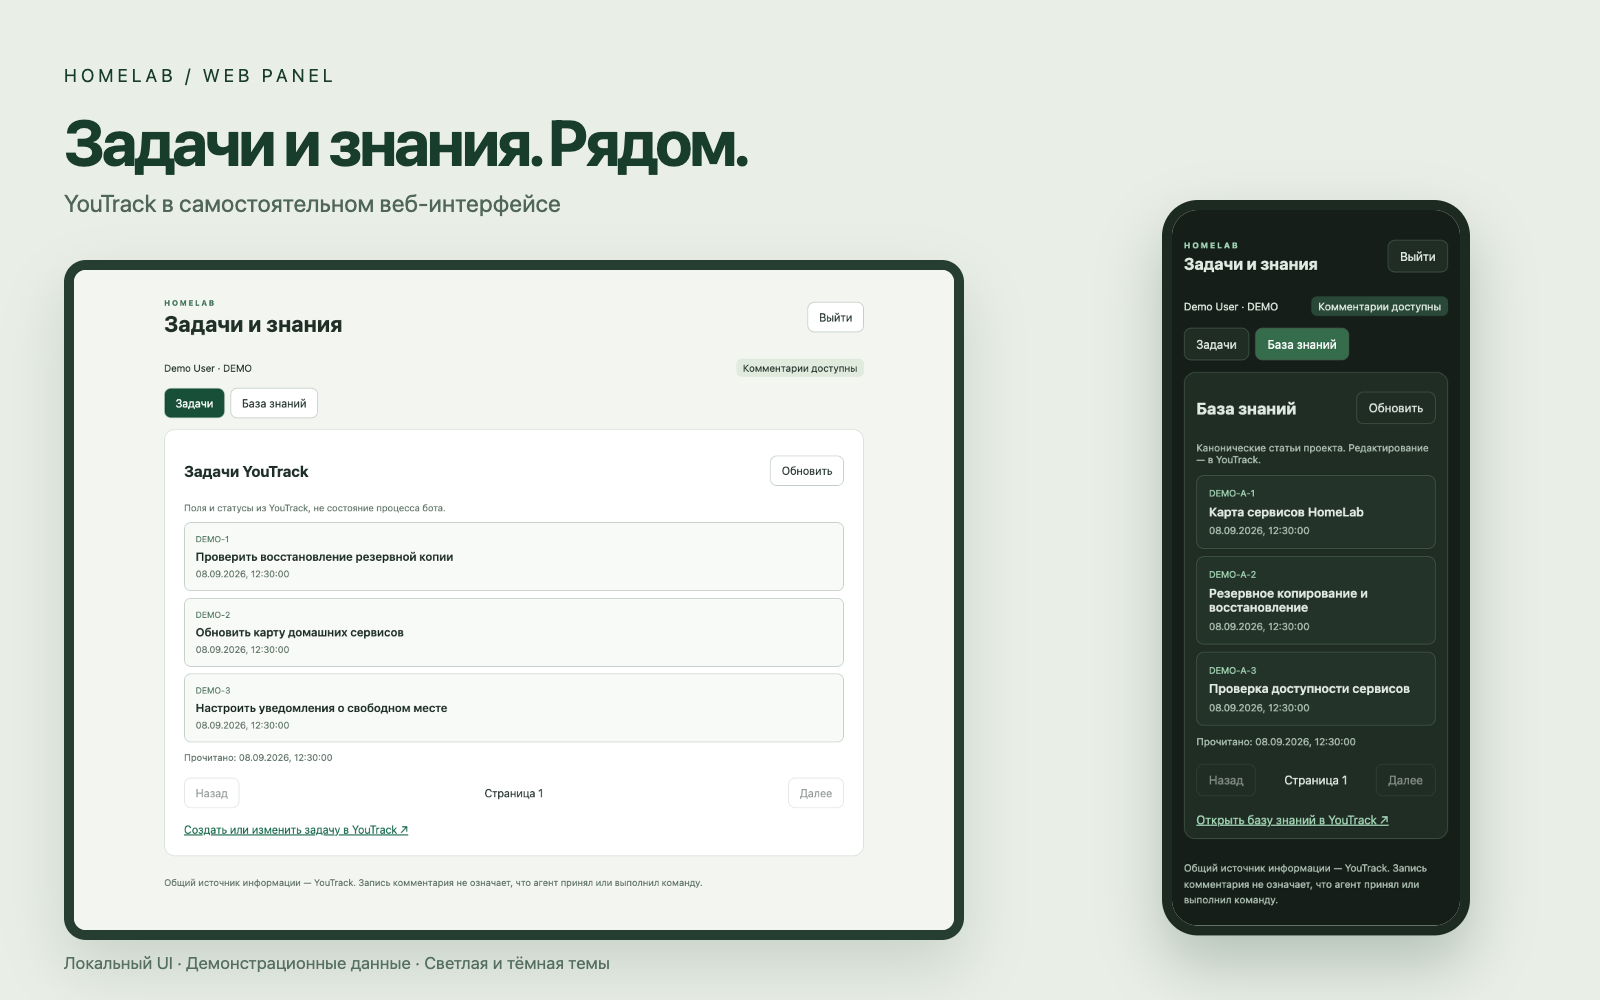
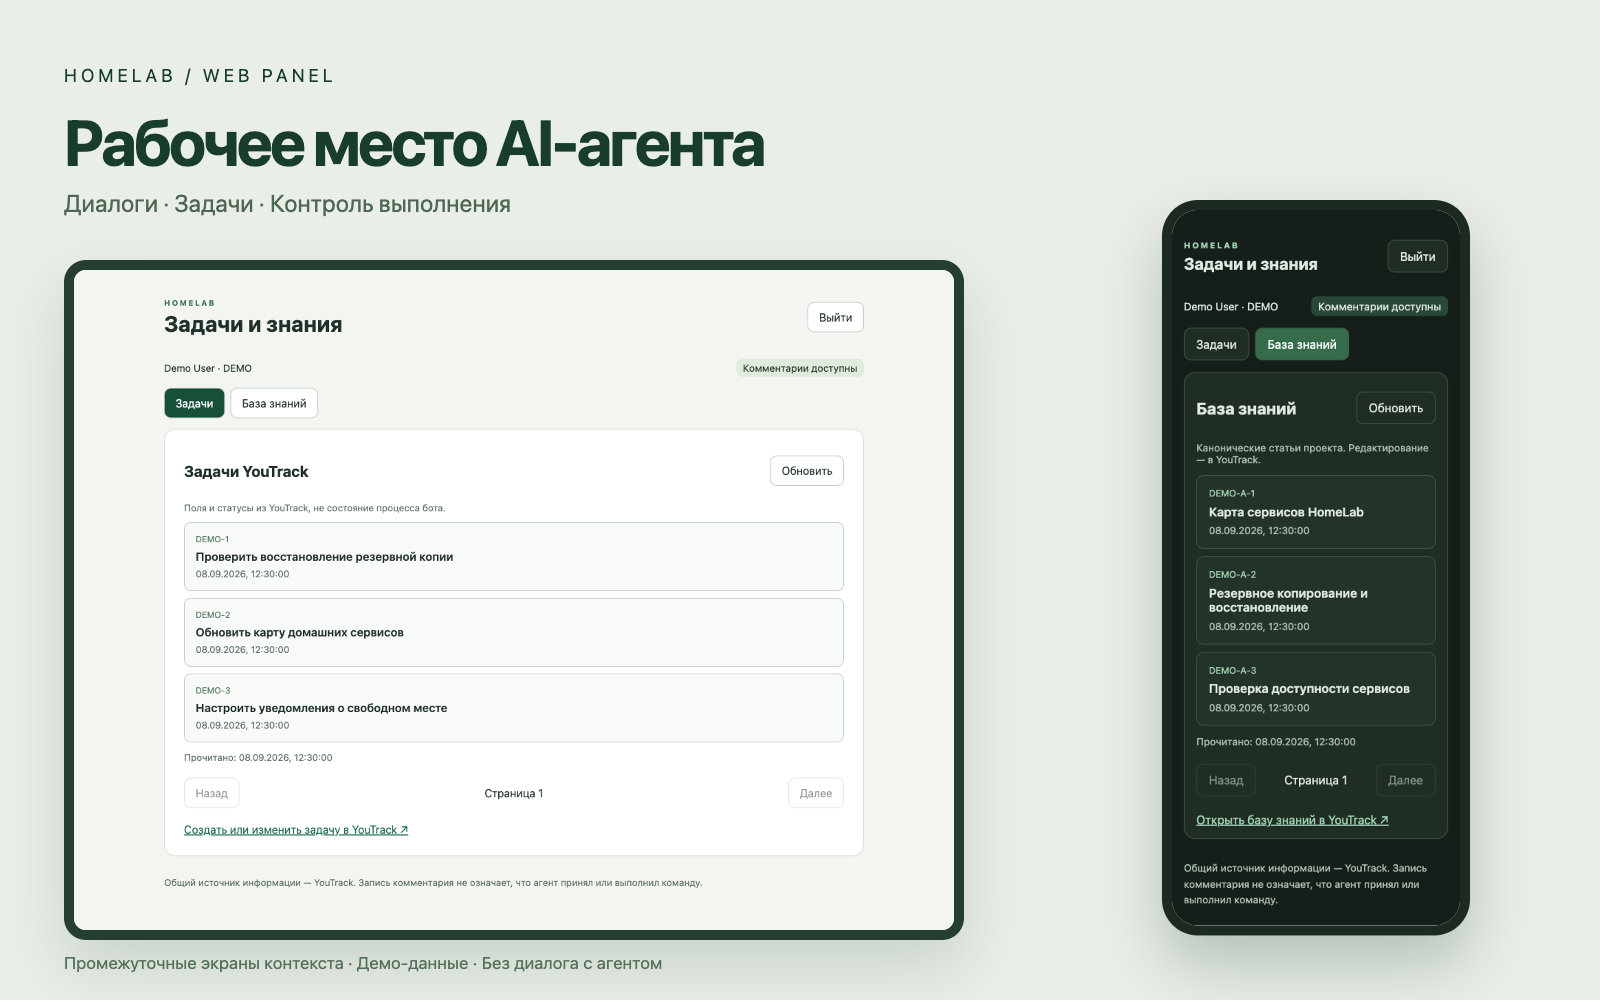
docs: restore agent-shell product purpose

Changed region(s): [[0.0312, 0.124, 0.5, 0.217], [0.0312, 0.961, 0.4062, 0.992]]

diff --git a/README.md b/README.md
@@ -2,24 +2,45 @@
 
 # HomeLab Panel
 
-**Задачи, обсуждения и база знаний — в одном веб-интерфейсе.**
+**Веб-оболочка AI-агента: диалоги, задачи и контроль выполнения.**
 
-React / Vite · Go · YouTrack · Светлая и тёмная темы
+Cursor SDK · Диалоги · Задачи · Контроль
 
-[Интерфейс](#интерфейс) · [Возможности](#возможности-и-честные-границы) · [Сборка](#сборка-и-проверки) · [Разработка](CONTRIBUTING.md)
+[Интерфейс](#интерфейс) · [Назначение](#назначение) · [Статус реализации](#статус-реализации) · [Сборка](#сборка-и-проверки) · [Разработка](CONTRIBUTING.md)
 
 </div>
 
 ![HomeLab Panel: обзор настольного и мобильного интерфейса](docs/images/overview.png)
 
-Независимая веб-панель для работы с YouTrack. Telegram-бот для запуска,
-входа и работы **не нужен**. Требования и актуальные решения:
-[HL-210](https://youtrack.h1-cloud.ru/issue/HL-210) ·
-[ADR-MW-001](https://youtrack.h1-cloud.ru/articles/HL-A-592).
+HomeLab Panel — рабочее место для взаимодействия с собственным AI-агентом
+на **Cursor SDK**. Пользователь общается с агентом, ставит задачи, следит за
+их выполнением, отвечает на вопросы и управляет конкретной работой.
+YouTrack хранит постановки, решения, знания и опубликованные результаты,
+которые агент использует в работе.
 
-> Изображения показывают UI из `535ecc1` на синтетических данных проекта `DEMO`.
-> Обложка — композиция реальных локальных скриншотов. Это preview интерфейса,
-> а не подтверждение production-развёртывания или полноты HL-210.
+## Назначение
+
+Приложение создаётся как оболочка вокруг агента. Основные сценарии продукта:
+
+- **Общаться:** вести диалоги с агентом и переключаться между независимыми контекстами.
+- **Поручать работу:** задавать цель и уточнять её в контексте конкретной задачи.
+- **Следить за выполнением:** видеть состояние, результат, причину ожидания и следующий шаг.
+- **Управлять:** отвечать на вопросы агента, уточнять и адресно останавливать работу.
+- **Сохранять контекст:** использовать задачи и базу знаний YouTrack, явно публиковать результаты.
+
+Это назначение и целевые сценарии продукта; статус их реализации приведён ниже.
+По принятой архитектуре Panel должна содержать собственный агентский runtime
+и работать независимо от Telegram-бота.
+Выход из веб-панели по требованиям продукта отзывает веб-доступ, но не останавливает
+запущенного агента. Остановка работы — отдельное явное действие.
+
+Канонические требования: [HL-210@10](https://youtrack.h1-cloud.ru/issue/HL-210).
+Первый инкремент собственного агента: [HL-238@3](https://youtrack.h1-cloud.ru/issue/HL-238).
+
+> Галерея показывает промежуточные экраны задач и знаний из `535ecc1`
+> на синтетических данных `DEMO`. Диалог с агентом на этих снимках ещё отсутствует.
+> Обложка — композиция локальных скриншотов; она не подтверждает полноту продукта
+> или production-развёртывание.
 
 ## Интерфейс
 
@@ -58,21 +79,28 @@ React / Vite · Go · YouTrack · Светлая и тёмная темы
 
 ## Как устроено
 
+Принятая продуктовая граница по HL-210@8–10:
+
 ```mermaid
 flowchart LR
-    Browser[Браузер] --> Panel[Panel · React + Go]
-    Panel --> YT[YouTrack · задачи, комментарии, KB]
-    Bot[Telegram-бот / Fixik] --> YT
+    User[Пользователь] --> Panel[Panel · диалоги и управление]
+    Panel --> Agent[Собственный агент · Cursor SDK]
+    Agent --> YT[YouTrack · задачи, решения, знания]
+    Panel --> YT
+    Bot[Независимый Telegram-бот / Fixik] --> YT
 ```
 
-Нет вызовов Controller, Unix-сокетов, callbacks, общей БД, volumes, очереди
-или bot token. Остановка одного приложения не требует остановки другого.
-Общая зависимость — YouTrack: его отказ отключает получение/запись данных,
-но не запуск Panel и не выдаётся за отказ бота.
+Cursor SDK выполняет работу агента; Panel предоставляет интерфейс и управление
+его запуском. YouTrack — канонический контекст задач и знаний, а также канал обмена
+с независимым Telegram-ботом. Прямых вызовов Controller бота, общих БД, сокетов,
+очередей и секретов между приложениями нет.
 
 Правила разработки: [AGENTS.md](AGENTS.md), [CONTRIBUTING.md](CONTRIBUTING.md).
 
-## Возможности и честные границы
+## Статус реализации
+
+**В `main` на базе `df28c48` находится промежуточный срез интеграции с YouTrack.**
+Он обеспечивает доступ к контексту для будущей работы агента:
 
 - Список/детали issues проекта, поля YouTrack, страницы комментариев.
 - Чтение статей Knowledge Base проекта.
@@ -86,8 +114,15 @@ flowchart LR
 - Черновики адресованы точному issue и сохраняются в памяти при переключении
   задач/разделов; reload/logout не сохраняет черновики.
 
-Полный продуктовый R1–R3 остаётся HL-210. Изоляция не объявляется полным релизом
-старого Mobile Workspace и не доказывает production/device acceptance.
+**Собственный агент развивается в HL-238**, отдельно от этого среза `main`:
+диалог по выбранной задаче, Cursor SDK, чтение задач/комментариев/KB через инструменты,
+состояния запуска, адресная остановка и явная публикация результата.
+Это первый агентский инкремент; долговечная история нескольких диалогов,
+полный жизненный цикл задач и production-приёмка остаются в HL-210.
+Доступ к YouTrack сам по себе не означает готовность агентской оболочки.
+
+Следующие технические разделы описывают именно текущий срез `main` без
+агентского runtime. Конфигурация SDK и его проверки поставляются вместе с HL-238.
 
 ## Независимый вход
 
@@ -157,8 +192,8 @@ Host port опубликован только на 127.0.0.1; внешний TLS
 
 Extraction base: Fixik `next/@aea6ae7`; repository base этой миграции `d6121bd`.
 Старые gateway/auth/private-client пакеты, UI `components/mobile-workspace.tsx`,
-SDK source и OpenAPI v1 оставлены для сверки паритета и возврата, не удалены.
-Они **не импортируются** новым executable/UI, SDK не поставляется в bundle.
+Telegram SDK source и OpenAPI v1 оставлены для сверки паритета и возврата, не удалены.
+Они **не импортируются** новым executable/UI, Telegram SDK не поставляется в bundle.
 Это проверяется `internal/architecture/boundaries_test.go`.
 Историческое имя binary/command сохранено для build tooling; это не runtime связь.
 

diff --git a/docs/preview/README.md b/docs/preview/README.md
@@ -1,6 +1,8 @@
 # Изображения для README
 
 Скриншоты сняты с tracked embedded UI из commit `535ecc1c6c527b9a5c83a5c41d5304e3f565fe57`.
+Это промежуточные экраны доступа к контексту YouTrack; диалог с агентом
+в этой версии отсутствует. Назначение продукта — оболочка собственного AI-агента.
 Исходники интерфейса и его стили не изменялись. `overview.png` — композиция
 настольного и мобильного снимков в декоративных рамках, отрисованная Chromium.
 
